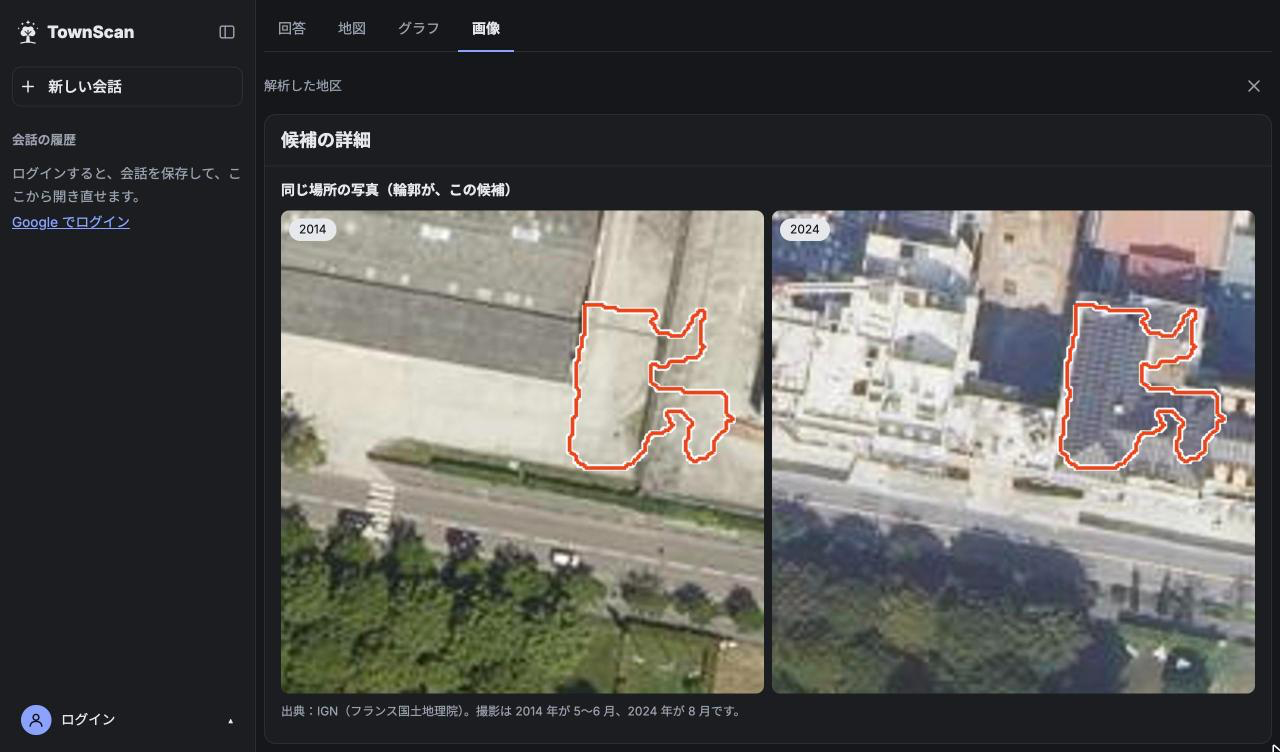
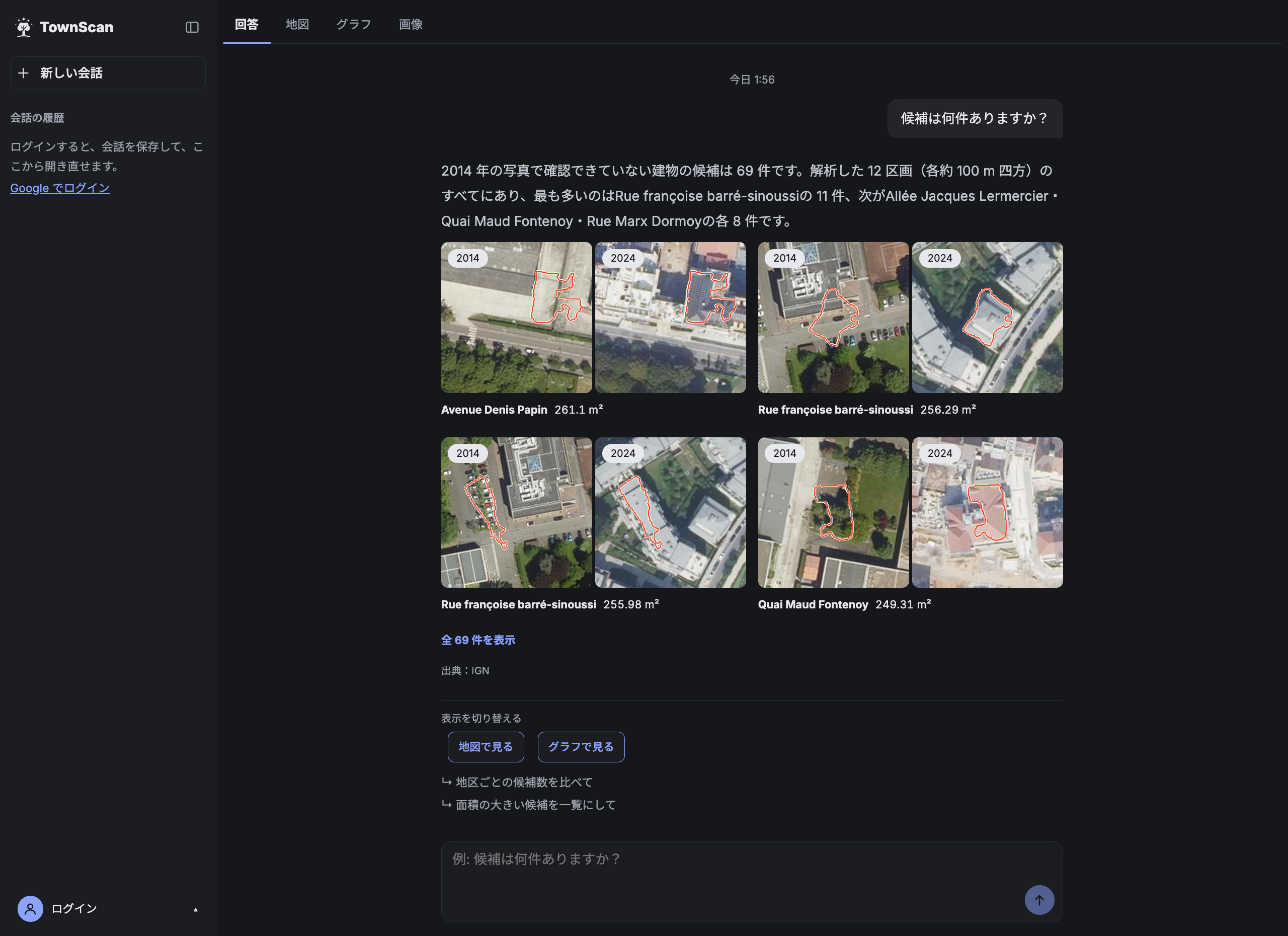
docs(readme): show a chat answer in the second screenshot

diff --git a/README.ja.md b/README.ja.md
@@ -8,11 +8,11 @@
 
 **今の検出の出来は悪いです。** 目で見ると、大きな新しい建物を見落とし、影を建物と判定します。フランスの写真での精度は測っていません。候補の件数は、建築の統計として読めません。
 
-| 地図の上の候補 | 1 件の 2014 年と 2024 年の写真 |
+| 地図の上の候補 | 2014 年と 2024 年の写真つきの回答 |
 |---|---|
-| <a href="docs/images/map.png"><picture><source media="(prefers-color-scheme: dark)" srcset="docs/images/map-dark.png"><img alt="地図のタブ。解析した 12 地区の候補の位置と、分類ごとの件数が出る。IGN の出典が見える" src="docs/images/map.png"></picture></a> | <a href="docs/images/compare.png"><picture><source media="(prefers-color-scheme: dark)" srcset="docs/images/compare-dark.png"><img alt="候補の詳細。1 件の候補の 2014 年・2024 年の写真（輪郭つき）と出典が出る" src="docs/images/compare.png"></picture></a> |
+| <a href="docs/images/map.png"><picture><source media="(prefers-color-scheme: dark)" srcset="docs/images/map-dark.png"><img alt="地図のタブ。解析した 12 地区の候補の位置と、分類ごとの件数が出る。IGN の出典が見える" src="docs/images/map.png"></picture></a> | <a href="docs/images/compare.png"><picture><source media="(prefers-color-scheme: dark)" srcset="docs/images/compare-dark.png"><img alt="チャットの回答。候補の件数を聞く質問、短い回答文、4 件の候補の 2014 年・2024 年の写真（輪郭つき）、次の質問の例が出る" src="docs/images/compare.png"></picture></a> |
 
-右は「2014 年は未検出」の中で面積がいちばん大きい候補で、検出の出来を代表する例とは限りません。画像の地図と写真の出典: IGN（フランス国土地理院）の [Plan IGN](https://www.data.gouv.fr/datasets/plan-ign)（最終更新 2026-10-08）と [BD ORTHO](https://www.data.gouv.fr/datasets/bd-ortho-r)（最終更新 2026-11-18）、Licence Ouverte 2.0。
+右の写真は「2014 年は未検出」の中で面積が大きい上位 4 件で、検出の出来を代表する例とは限りません。画像の地図と写真の出典: IGN（フランス国土地理院）の [Plan IGN](https://www.data.gouv.fr/datasets/plan-ign)（最終更新 2026-10-08）と [BD ORTHO](https://www.data.gouv.fr/datasets/bd-ortho-r)（最終更新 2026-11-18）、Licence Ouverte 2.0。
 
 ## 機能
 

diff --git a/README.md b/README.md
@@ -8,11 +8,11 @@ A chat app that finds candidates for new buildings in the south-western suburbs 
 
 **Detection quality is poor so far:** by eye, the current model misses large new buildings and reports shadows as buildings. Its accuracy on the French photos has not been measured. Do not read the candidate counts as construction statistics.
 
-| Candidates on the map | Photos of one candidate, 2014 and 2024 |
+| Candidates on the map | A chat answer with 2014 and 2024 photos |
 |---|---|
-| <a href="docs/images/map.png"><picture><source media="(prefers-color-scheme: dark)" srcset="docs/images/map-dark.png"><img alt="Map tab: where the candidates are in the 12 analysed areas, with counts per class and the IGN attribution" src="docs/images/map.png"></picture></a> | <a href="docs/images/compare.png"><picture><source media="(prefers-color-scheme: dark)" srcset="docs/images/compare-dark.png"><img alt="Candidate detail: the 2014 and 2024 photos of one candidate, its outline and the source attribution" src="docs/images/compare.png"></picture></a> |
+| <a href="docs/images/map.png"><picture><source media="(prefers-color-scheme: dark)" srcset="docs/images/map-dark.png"><img alt="Map tab: where the candidates are in the 12 analysed areas, with counts per class and the IGN attribution" src="docs/images/map.png"></picture></a> | <a href="docs/images/compare.png"><picture><source media="(prefers-color-scheme: dark)" srcset="docs/images/compare-dark.png"><img alt="Chat answer: a question about the number of candidates, a short reply in Japanese, outlined 2014 and 2024 photos of four candidates, and suggested next questions" src="docs/images/compare.png"></picture></a> |
 
-The one on the right is the largest "not detected in 2014" candidate; it is not necessarily typical of the detection quality. Map and photos in these images: [Plan IGN](https://www.data.gouv.fr/datasets/plan-ign) (last updated 2026-10-08) and [BD ORTHO](https://www.data.gouv.fr/datasets/bd-ortho-r) (last updated 2026-11-18) by IGN, Licence Ouverte 2.0.
+The photos on the right are the four largest "not detected in 2014" candidates; they are not necessarily typical of the detection quality. Map and photos in these images: [Plan IGN](https://www.data.gouv.fr/datasets/plan-ign) (last updated 2026-10-08) and [BD ORTHO](https://www.data.gouv.fr/datasets/bd-ortho-r) (last updated 2026-11-18) by IGN, Licence Ouverte 2.0.
 
 ## Features
 
